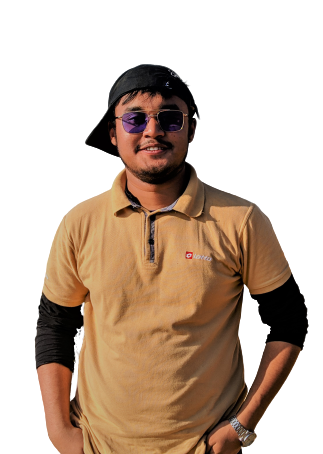
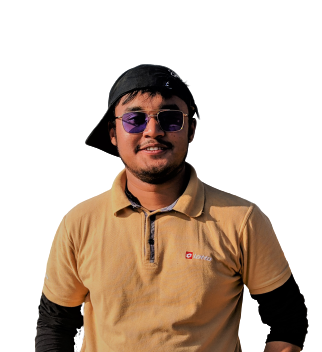
media query 1

diff --git a/style.css b/style.css
@@ -17,6 +17,7 @@ h2 {
 }
 
 .personal-site {
+	margin-top: 5%;
 	margin-left: 3%;
 	margin-right: 3%;
 	display: flex;
@@ -46,6 +47,7 @@ h2 {
 	background-color: rgba(68, 63, 63, 0.496);
 	border: 4px solid orange;
 	background-image: url(images/sakib1.png);
+	background-position: center center;
 	border-radius: 50%;
 	box-shadow: 5px 5px 20px rgb(0, 0, 0);
 	transition: all 0.5s ease;
@@ -68,6 +70,7 @@ h2 {
 	background-color: rgba(68, 63, 63, 0.496);
 	border: 4px solid orange;
 	background-image: url(images/sakib2.png);
+	background-position: center center;
 	border-radius: 50%;
 	box-shadow: 5px 5px 20px rgb(0, 0, 0);
 	transition: all 0.5s ease;
@@ -102,6 +105,7 @@ h2 {
 
 .experience-title {
 	text-align: center;
+	padding-bottom: 15px;
 }
 
 .experience-items {
@@ -141,3 +145,82 @@ h2 {
 	background-color: rgba(83, 77, 77, 0.496);
 	border-color: white;
 }
+
+
+/* media query */
+@media(max-width:886px) {
+	h1 {
+		font-size: 35px;
+	}
+
+	h2 {
+		font-size: 25px;
+	}
+}
+
+@media(max-width:690px) {
+	.flexiable-section {
+		flex-direction: column;
+		align-items: center;
+		justify-content: center;
+	}
+
+
+	.child:nth-child(2) {
+		order: -1;
+	}
+
+	.image-round1 {
+		width: 200px;
+		height: 200px;
+	}
+
+	.image-round2 {
+		margin-top: 50px;
+		width: 200px;
+		height: 200px;
+	}
+
+
+	.link-button {
+		font-size: 16px;
+
+	}
+
+	.personal-site {
+		margin-left: 10px;
+		margin-right: 10px;
+
+	}
+
+	.image1 {
+		justify-content: center;
+	}
+
+	.image2 {
+		justify-content: center;
+	}
+
+	.experience-items {
+		display: flex;
+		flex-direction: column;
+		justify-content: center;
+		align-items: center;
+		margin-bottom: 7%;
+	}
+
+	.full-stack-dev {
+		margin-bottom: 50px;
+		width: 70%;
+	}
+
+	.baby-web-dev {
+		width: 70%;
+	}
+
+	.half-width {
+		width: 70%;
+	}
+}
+
+/* @media(max-width:690px) { */

diff --git a/index.html b/index.html
@@ -13,14 +13,14 @@
 <body>
 	<div class="personal-site">
 		<section class="top-banner flexiable-section">
-			<div class="half-width">
+			<div class="half-width child">
 				<h1>Hello!!! Welcome to</h1>
 				<h1><span class="orange-color">Sakib Ahamed Khan </span> Portfolio!</h1>
 				<h2>I am a Leaner</h2>
 				<p class="details">At present I studied in Computer Science and Engieering at BGC Trust University Bangladesh. My dream is to become a Software Engineer. Now I learn Web development in Programming Hero Web Development course Batch 5.</p>
 				<a class="link-button" href="">HIRE ME</a>
 			</div>
-			<div class="half-width image1">
+			<div class="half-width image1 child">
 				<div class="image-round1">
 					<!-- <img src="images/sakib1.png" alt=""> -->
 				</div>
@@ -57,6 +57,9 @@
 			</div>
 			
 		</section>
+		<footer>
+			<p>© Sakib Ahamed Khan 2023, a Web Developer.</p>
+		</footer>
 	</div>
 </body>
 </html>
